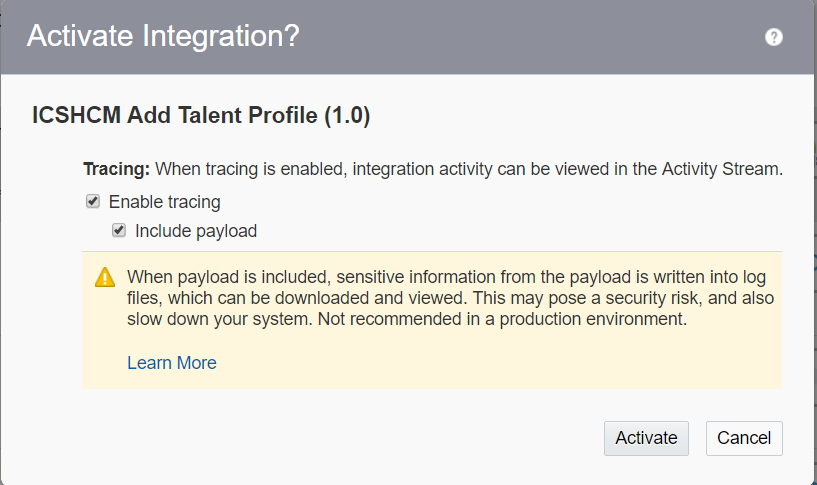
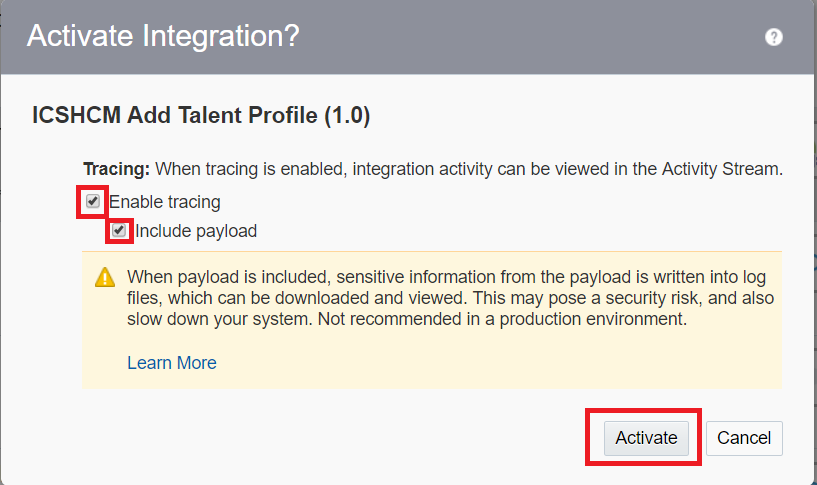
lab-400

Changed region(s): [[0.7038, 0.8351, 0.8568, 0.9588], [0.0918, 0.3711, 0.1836, 0.5258]]

diff --git a/LabGuide400.md b/LabGuide400.md
@@ -1,6 +1,5 @@
 <img class="float-right" src="https://oracle.github.io/learning-library/workshops/common-content/images/touch-the-cloud/ttc-logo.png" width="200">
 # Lab 400 - HCM Integration
----
 
 ## Introduction
 
@@ -16,7 +15,7 @@ Before we start testing the integration, you need to activate the integration fo
 
 ![](images/400/image100.png)
 
-**1.2** Make sure to tick "enable tracing" and "include payload" when the window pops up.
+**1.2** Make sure to tick "enable tracing" and "include payload" when the window pops up. Click on the activate button to activate it.
 
 ![](images/400/image101.png)
 
@@ -59,125 +58,125 @@ Before we start testing the integration, you need to activate the integration fo
 Copy paste one of the below request in the 'Request 1 section'.
 
 
-1. Request  payload for Athlete:
+**1. Request  payload for Athlete:**
 
 
-<soapenv:Envelope xmlns:soapenv="http://schemas.xmlsoap.org/soap/envelope/" xmlns:tal="http://icshcmpoc.oracle.com/TalentProfileData">
-<soapenv:Header>
+	<soapenv:Envelope xmlns:soapenv="http://schemas.xmlsoap.org/soap/envelope/" xmlns:tal="http://icshcmpoc.oracle.com/TalentProfileData">
+	<soapenv:Header>
 
-</soapenv:Header>
-<soapenv:Body>
-<tal:TalentProfileData>
-<tal:TalentProfile>
-<tal:PersonNumber>98</tal:PersonNumber>
-<tal:ProfileTypeCode>PERSON</tal:ProfileTypeCode>
-<tal:ProfileCode>PERS_300000047881516</tal:ProfileCode>
-<tal:ProfileStatusCode>A</tal:ProfileStatusCode>
-<tal:ProfileUsageCode>P</tal:ProfileUsageCode>
-</tal:TalentProfile>
-<!--1 or more repetitions:-->
-<tal:ProfileItem>
-<tal:SourceSystemOwner>ICS_HCM_GSE</tal:SourceSystemOwner>
+	</soapenv:Header>
+	<soapenv:Body>
+	<tal:TalentProfileData>
+	<tal:TalentProfile>
+	<tal:PersonNumber>98</tal:PersonNumber>
+	<tal:ProfileTypeCode>PERSON</tal:ProfileTypeCode>
+	<tal:ProfileCode>PERS_300000047881516</tal:ProfileCode>
+	<tal:ProfileStatusCode>A</tal:ProfileStatusCode>
+	<tal:ProfileUsageCode>P</tal:ProfileUsageCode>
+	</tal:TalentProfile>
+	<!--1 or more repetitions:-->
+	<tal:ProfileItem>
+	<tal:SourceSystemOwner>ICS_HCM_GSE</tal:SourceSystemOwner>
 
-<tal:SourceSystemId>ADDITIONAL_QUALIFICATIONS_98_ATHELETE</tal:SourceSystemId>
-<!--Make sure that SourceSystemId is always unique-->
-<tal:ProfileCode>PERS_300000047881516</tal:ProfileCode>
-<tal:ContentType>ADDITIONAL_QUALIFICATIONS</tal:ContentType>
+	<tal:SourceSystemId>ADDITIONAL_QUALIFICATIONS_98_ATHELETE</tal:SourceSystemId>
+	<!--Make sure that SourceSystemId is always unique-->
+	<tal:ProfileCode>PERS_300000047881516</tal:ProfileCode>
+	<tal:ContentType>ADDITIONAL_QUALIFICATIONS</tal:ContentType>
 
-<!--Can use inputs like Artist or Photographer (OOTB created) -->
+	<!--Can use inputs like Artist or Photographer (OOTB created) -->
 
-<tal:ContentItem>Athlete</tal:ContentItem>
-<tal:DateFrom>2017/05/31</tal:DateFrom>
+	<tal:ContentItem>Athlete</tal:ContentItem>
+	<tal:DateFrom>2017/05/31</tal:DateFrom>
 
-<!--Enter description of your choice-->
+	<!--Enter description of your choice-->
 
-<tal:ItemText24010>I'm an athlete </tal:ItemText24010>
-</tal:ProfileItem>
-</tal:TalentProfileData>
-</soapenv:Body>
-</soapenv:Envelope>
+	<tal:ItemText24010>I'm an athlete </tal:ItemText24010>
+	</tal:ProfileItem>
+	</tal:TalentProfileData>
+	</soapenv:Body>
+	</soapenv:Envelope>
 
-2. Request  payload for Artist:
-
-
-<soapenv:Envelope xmlns:soapenv="http://schemas.xmlsoap.org/soap/envelope/" xmlns:tal="http://icshcmpoc.oracle.com/TalentProfileData">
-<soapenv:Header>
-
-</soapenv:Header>
-<soapenv:Body>
-<tal:TalentProfileData>
-<tal:TalentProfile>
-<tal:PersonNumber>98</tal:PersonNumber>
-<tal:ProfileTypeCode>PERSON</tal:ProfileTypeCode>
-<tal:ProfileCode>PERS_300000047881516</tal:ProfileCode>
-<tal:ProfileStatusCode>A</tal:ProfileStatusCode>
-<tal:ProfileUsageCode>P</tal:ProfileUsageCode>
-</tal:TalentProfile>
-<!--1 or more repetitions:-->
-<tal:ProfileItem>
-<tal:SourceSystemOwner>ICS_HCM_GSE</tal:SourceSystemOwner>
-
-<tal:SourceSystemId>ADDITIONAL_QUALIFICATIONS_98_ARTIST</tal:SourceSystemId>
-<!--Make sure that SourceSystemId is always unique-->
-<tal:ProfileCode>PERS_300000047881516</tal:ProfileCode>
-<tal:ContentType>ADDITIONAL_QUALIFICATIONS</tal:ContentType>
-
-<!--Can use inputs like Artist or Photographer (OOTB created) -->
-
-<tal:ContentItem>Artist</tal:ContentItem>
-<tal:DateFrom>2017/05/31</tal:DateFrom>
-
-<!--Enter description of your choice-->
-
-<tal:ItemText24010>I'm a painter </tal:ItemText24010>
-</tal:ProfileItem>
-</tal:TalentProfileData>
-</soapenv:Body>
-</soapenv:Envelope>
+**2. Request  payload for Artist:**
 
 
+	<soapenv:Envelope xmlns:soapenv="http://schemas.xmlsoap.org/soap/envelope/" xmlns:tal="http://icshcmpoc.oracle.com/TalentProfileData">
+	<soapenv:Header>
+
+	</soapenv:Header>
+	<soapenv:Body>
+	<tal:TalentProfileData>
+	<tal:TalentProfile>
+	<tal:PersonNumber>98</tal:PersonNumber>
+	<tal:ProfileTypeCode>PERSON</tal:ProfileTypeCode>
+	<tal:ProfileCode>PERS_300000047881516</tal:ProfileCode>
+	<tal:ProfileStatusCode>A</tal:ProfileStatusCode>
+	<tal:ProfileUsageCode>P</tal:ProfileUsageCode>
+	</tal:TalentProfile>
+	<!--1 or more repetitions:-->
+	<tal:ProfileItem>
+	<tal:SourceSystemOwner>ICS_HCM_GSE</tal:SourceSystemOwner>
+
+	<tal:SourceSystemId>ADDITIONAL_QUALIFICATIONS_98_ARTIST</tal:SourceSystemId>
+	<!--Make sure that SourceSystemId is always unique-->
+	<tal:ProfileCode>PERS_300000047881516</tal:ProfileCode>
+	<tal:ContentType>ADDITIONAL_QUALIFICATIONS</tal:ContentType>
+
+	<!--Can use inputs like Artist or Photographer (OOTB created) -->
+
+	<tal:ContentItem>Artist</tal:ContentItem>
+	<tal:DateFrom>2017/05/31</tal:DateFrom>
+
+	<!--Enter description of your choice-->
+
+	<tal:ItemText24010>I'm a painter </tal:ItemText24010>
+	</tal:ProfileItem>
+	</tal:TalentProfileData>
+	</soapenv:Body>
+	</soapenv:Envelope>
 
 
 
-3. Request  payload for Photographer:
 
 
-<soapenv:Envelope xmlns:soapenv="http://schemas.xmlsoap.org/soap/envelope/" xmlns:tal="http://icshcmpoc.oracle.com/TalentProfileData">
-<soapenv:Header>
-
-</soapenv:Header>
-<soapenv:Body>
-<tal:TalentProfileData>
-<tal:TalentProfile>
-<tal:PersonNumber>98</tal:PersonNumber>
-<tal:ProfileTypeCode>PERSON</tal:ProfileTypeCode>
-<tal:ProfileCode>PERS_300000047881516</tal:ProfileCode>
-<tal:ProfileStatusCode>A</tal:ProfileStatusCode>
-<tal:ProfileUsageCode>P</tal:ProfileUsageCode>
-</tal:TalentProfile>
-<!--1 or more repetitions:-->
-<tal:ProfileItem>
-<tal:SourceSystemOwner>ICS_HCM_GSE</tal:SourceSystemOwner>
-
-<tal:SourceSystemId>ADDITIONAL_QUALIFICATIONS_98_PHOTOGRAPHER</tal:SourceSystemId>
-<!--Make sure that SourceSystemId is always unique-->
-<tal:ProfileCode>PERS_300000047881516</tal:ProfileCode>
-<tal:ContentType>ADDITIONAL_QUALIFICATIONS</tal:ContentType>
-
-<!--Can use inputs like Artist or Photographer (OOTB created) -->
-
-<tal:ContentItem>Photographer</tal:ContentItem>
-<tal:DateFrom>2017/05/31</tal:DateFrom>
-
-<!--Enter description of your choice-->
-
-<tal:ItemText24010>I'm a wild life photographer </tal:ItemText24010>
-</tal:ProfileItem>
-</tal:TalentProfileData>
-</soapenv:Body>
-</soapenv:Envelope>
+**3. Request  payload for Photographer:**
 
 
+	<soapenv:Envelope xmlns:soapenv="http://schemas.xmlsoap.org/soap/envelope/" xmlns:tal="http://icshcmpoc.oracle.com/TalentProfileData">
+	<soapenv:Header>
+
+	</soapenv:Header>
+	<soapenv:Body>
+	<tal:TalentProfileData>
+	<tal:TalentProfile>
+	<tal:PersonNumber>98</tal:PersonNumber>
+	<tal:ProfileTypeCode>PERSON</tal:ProfileTypeCode>
+	<tal:ProfileCode>PERS_300000047881516</tal:ProfileCode>
+	<tal:ProfileStatusCode>A</tal:ProfileStatusCode>
+	<tal:ProfileUsageCode>P</tal:ProfileUsageCode>
+	</tal:TalentProfile>
+	<!--1 or more repetitions:-->
+	<tal:ProfileItem>
+	<tal:SourceSystemOwner>ICS_HCM_GSE</tal:SourceSystemOwner>
+
+	<tal:SourceSystemId>ADDITIONAL_QUALIFICATIONS_98_PHOTOGRAPHER</tal:SourceSystemId>
+	<!--Make sure that SourceSystemId is always unique-->
+	<tal:ProfileCode>PERS_300000047881516</tal:ProfileCode>
+	<tal:ContentType>ADDITIONAL_QUALIFICATIONS</tal:ContentType>
+
+	<!--Can use inputs like Artist or Photographer (OOTB created) -->
+
+	<tal:ContentItem>Photographer</tal:ContentItem>
+	<tal:DateFrom>2017/05/31</tal:DateFrom>
+
+	<!--Enter description of your choice-->
+
+	<tal:ItemText24010>I'm a wild life photographer </tal:ItemText24010>
+	</tal:ProfileItem>
+	</tal:TalentProfileData>
+	</soapenv:Body>
+	</soapenv:Envelope>
+
+---
 
 ![](images/400/image107.png)
 
